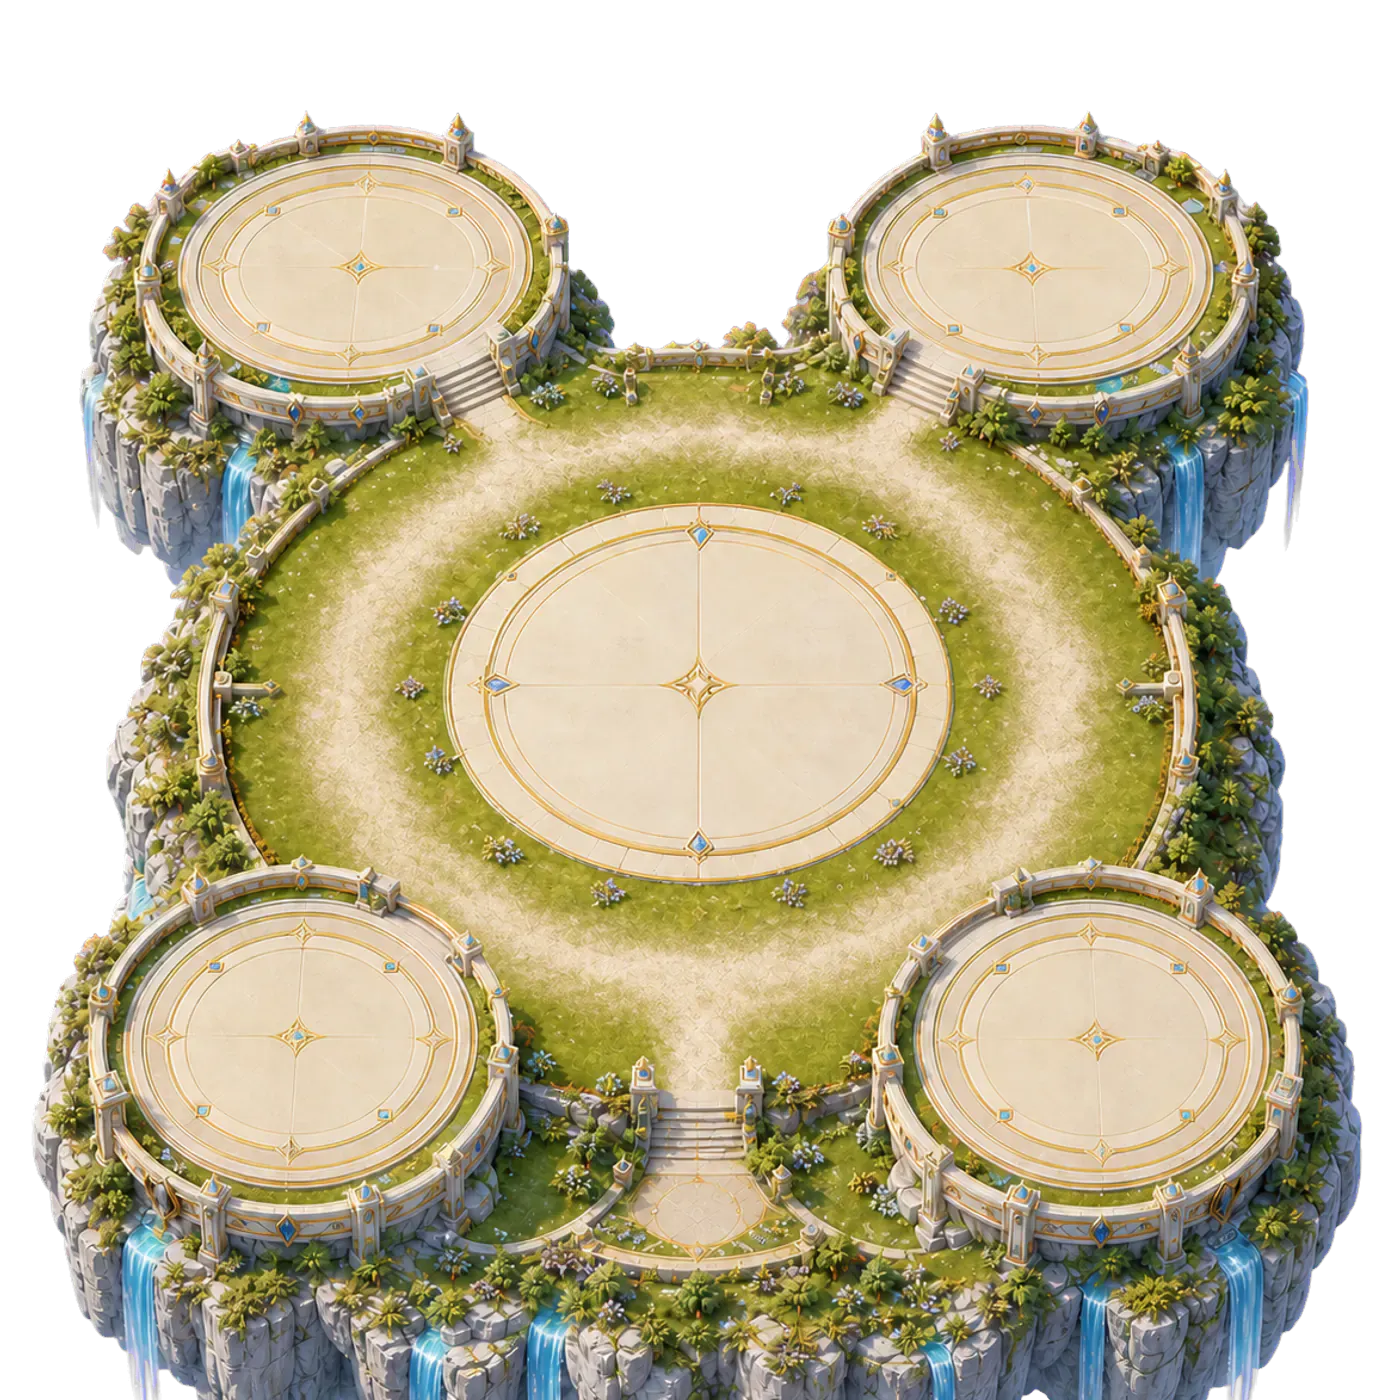
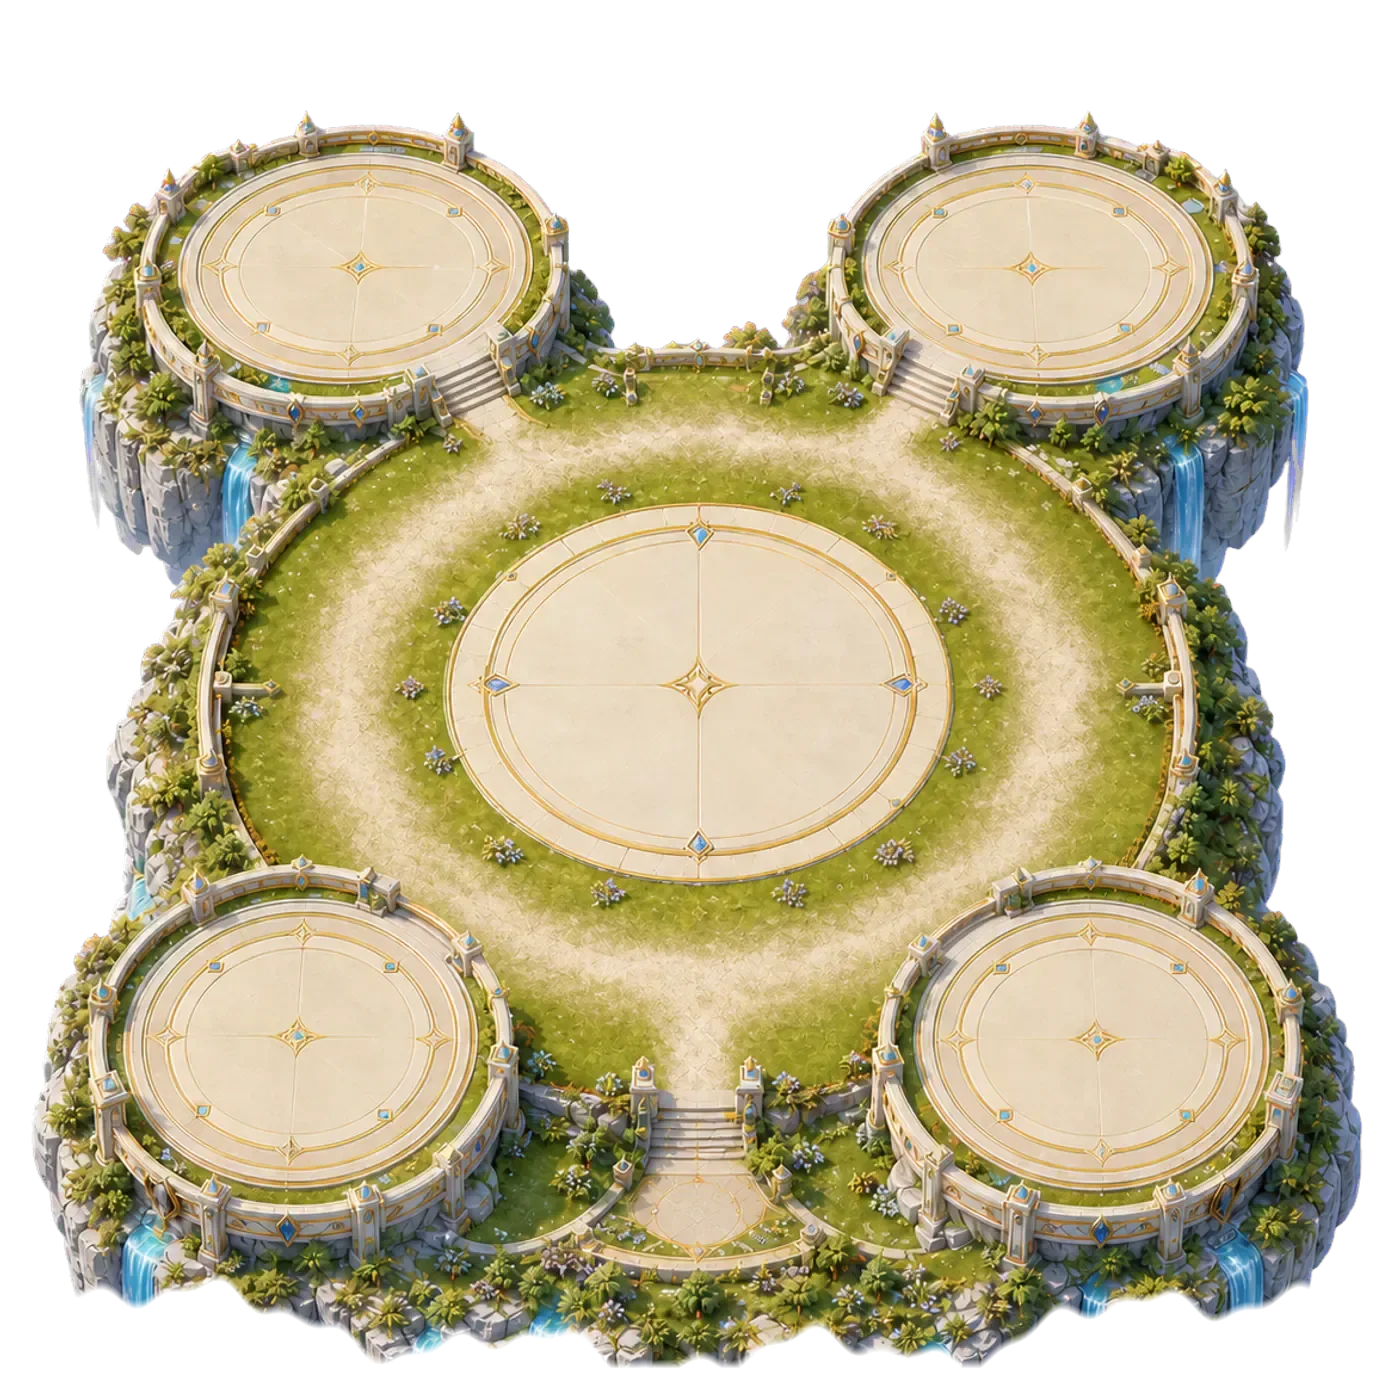
Repair First Light island cliff silhouette

Changed region(s): [[0.0307, 0.8907, 0.9521, 1.0]]

diff --git a/work/island-visual-library/island-001-first-light-kingdom/ASSET_TRACKER.md b/work/island-visual-library/island-001-first-light-kingdom/ASSET_TRACKER.md
@@ -8,7 +8,7 @@ preserved under the Island 006 runtime folder.
 | # | Runtime asset | State | Notes |
 | --- | --- | --- | --- |
 | 1 | `background/ambient-background.webp` | Complete, wired, phone-QA | 1400 × 1600 opaque WebP, 179 KB |
-| 2 | `board/board-plate.webp` | Complete, wired, phone-QA | 1400 × 1400 transparent WebP, 283 KB |
+| 2 | `board/board-plate.webp` | Complete, wired, phone-QA | 1400 × 1400 transparent WebP, 278 KB; organic transparent lower cliff edge |
 | 3 | `landmarks/hatchery/hatchery-l1.webp` | Complete, wired, phone-QA | 1024 × 1024 transparent WebP, 75 KB |
 | 4 | `landmarks/hatchery/hatchery-l2.webp` | Complete, wired, phone-QA | 1024 × 1024 transparent WebP, 132 KB |
 | 5 | `landmarks/hatchery/hatchery-l3.webp` | Complete, wired, phone-QA | 1024 × 1024 transparent WebP, 191 KB |
@@ -62,6 +62,15 @@ The first draft was rejected because it included a decorative segmented ring
 beneath the live route. In version 2 that ring was replaced with quiet,
 continuous pale lawn and ivory gravel. The four equal satellite foundations
 and central arena foundation remain empty for separate runtime assets.
+
+The original lower cliff touched the 1400 px canvas boundary across more than
+one thousand pixels, which rendered as a straight horizontal cut on phones.
+An ImageGen outpaint was used to establish the intended tapered floating-island
+silhouette, but was not selected because it altered the camera-locked
+foundations. The production v4 instead preserves every original pixel above the
+lower cliff and applies an irregular, feathered alpha termination only to the
+bottom edge. It retains the exact board geometry while leaving transparent air
+beneath the final rock and waterfall tips.
 
 The optimized board plate and the full final-angle landmark set were switched
 into the manifest atomically after mobile QA. The runtime crop is 1400 × 1400,
